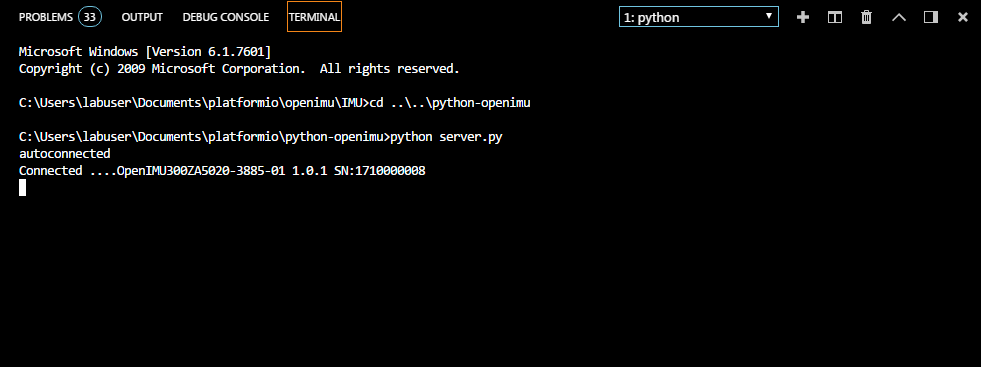
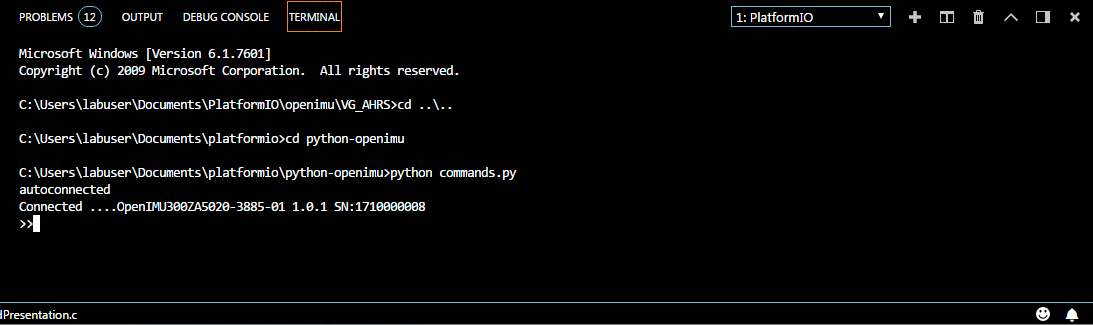
Corrections to tutorial files

diff --git a/tutorial.rst b/tutorial.rst
@@ -5,6 +5,8 @@ Building Your First Applications
 .. contents:: Contents
     :local:
 
+.. sectionauthor:: Joseph S Motyka <jmotyka at aceinna.com>
+
 
 *********
 Overview
@@ -13,7 +15,7 @@ Overview
 To get you acquainted with the OpenIMU environment, let's walk through the development of the
 following applications:
 
-    1. Framwork application
+    1. Framework application
     2. An Inertial-Measurement Unit (IMU)
     3. A Static-Leveler
     4. VG/AHRS
@@ -23,18 +25,21 @@ following applications:
 **Framework**
 
 All the examples that follow are based on the Framework application that ships installed on the
-OpenIMU.  This framework serves as a guided, blank-slate.  Descriptions provide guidance on where
+OpenIMU.  This framework serves as a blank-slate upon which user-application can be built.  The
+descriptions that follow provide guidance getting started, specifically on where in the framework
 to place sensor reads, algorithm code, and serial messaging output functions (among other items).
 
-For example, data acquisition functions (sensor-buffer getters) are placed in
-*inertialAndPositionDataProcessing()*.  The getters of interest can be used and the others removed.
-For instance, in the Leveler application, only the accelerometer data is of interest.  So no call
-is made for rate-sensor or magnetometer data and the getters associated with this data can be
-removed.
+For example, in the framework application, all data acquisition functions (sensor-buffer getters)
+are placed in *inertialAndPositionDataProcessing()*.  Depending upon your application, getters of
+interest can be kept while unused getters can be removed.  For instance, in the Leveler
+application, only accelerometer data is of interest.  No call is made for rate-sensor or
+magnetometer data so the getters associated with this data can be removed.
 
-To begin development of the IMU, Static-Leveler, or VG/AHRS application, rename the Framework
-application as something that is descriptive of your project and modify the code to suit your
-needs.  You can do this while walking through the following application examples.
+To begin development of the IMU, Static-Leveler, or VG/AHRS application, down load the application
+code related to the application being described (IMU, etc).  Follow the description to get an
+understanding how all the parts fit together.  When you are ready to create your own application,
+save the Framework application as something descriptive of your project and modify the code to suit
+your needs.
 
 
 **IMU**

diff --git a/tutorial/VG_AHRS/AHRS_Algorithm.rst b/tutorial/VG_AHRS/AHRS_Algorithm.rst
@@ -1,9 +1,11 @@
 ***************************************************************
-Verital-Gyro / Attitude and Heading Reference System Algorithm
+Vertical-Gyro / Attitude and Heading Reference System Algorithm
 ***************************************************************
 
 .. contents:: Contents
     :local:
+    
+.. sectionauthor:: Joseph S Motyka <jmotyka at aceinna.com>
 
 
 The mathematics behind the Vertical-Gyro / Attitude and Heading Reference System are based upon an
@@ -270,7 +272,7 @@ gAlgorithm.Behavior.  These are described in **Table 3**.
     |                      || is used to estimate heading.  When false, the heading error computed by    |
     |                      || the EKF is set to zero.  In this case, no updates to heading based states  |
     |                      || are done (the z-axis rate-bias is not estimated and the heading error is   |
-    |                      || not corrected.                                                             |
+    |                      || not corrected).                                                            |
     +----------------------+-----------------------------------------------------------------------------+
     |                      || This bit tells the algorithm to use GPS information if available.  For the |
     | *useGPS*             || VG/AHRS algorithm, this (at present) has no effect but should be set       |

diff --git a/tutorial/IMU_App.rst b/tutorial/IMU_App.rst
@@ -5,6 +5,8 @@ Inertial Measurement Unit Application
 .. contents:: Contents
     :local:
 
+.. sectionauthor:: Joseph S Motyka <jmotyka at aceinna.com>
+
 
 The Inertial Measurement Unit (IMU) application enables the OpenIMU hardware to provide
 inertial-sensor data from accelerometers, rate-sensors, and magnetometers.  This example forms the
@@ -38,10 +40,15 @@ follows:
     IMU/DefaultConfiguration
     IMU/PythonMessageDecoder
     IMU/NavigationStudio
-    IMU/Bootloader
 
 
 A pre-built version of the `IMU Application <https://developers.aceinna.com/apps>`__ can be
 downloaded directly onto the OpenIMU hardware at the
-`Aceinna Navigation Studio <https://developers.aceinna.com>`__ website.  
+`Aceinna Navigation Studio <https://developers.aceinna.com>`__ website.  The process is described
+here:
+
+.. toctree::
+    :maxdepth: 1
+
+    IMU/Bootloader
 

diff --git a/tutorial/VG_AHRS_App.rst b/tutorial/VG_AHRS_App.rst
@@ -4,6 +4,8 @@ Vertical-Gyro / Attitude and Heading Reference System Application
 
 .. contents:: Contents
     :local:
+    
+.. sectionauthor:: Joseph S Motyka <jmotyka at aceinna.com>
 
 
 The Vertical-Gyro (VG) / Attitude and Heading Reference System (AHRS) application enables the
@@ -50,4 +52,15 @@ as follows:
     VG_AHRS/DefaultConfiguration
     VG_AHRS/PythonMessageDecoder
     VG_AHRS/NavigationStudio
+
+
+A pre-built version of the `VG/AHRS Application <https://developers.aceinna.com/apps>`__ can be
+downloaded directly onto the OpenIMU hardware at the
+`Aceinna Navigation Studio <https://developers.aceinna.com>`__ website.  The process mirrors the
+once described for the `IMU application <IMU_App.html#inertial-measurement-unit-application>`__:
+
+.. toctree::
+    :maxdepth: 1
+
+    IMU/Bootloader
 

diff --git a/tutorial/Leveler_App.rst b/tutorial/Leveler_App.rst
@@ -4,6 +4,8 @@ Static-Leveler Application
 
 .. contents:: Contents
     :local:
+    
+.. sectionauthor:: Joseph S Motyka <jmotyka at aceinna.com>
 
 
 The static-leveler application enables the OpenIMU hardware to provide roll and pitch estimates (the
@@ -42,5 +44,12 @@ follows:
 
 A pre-built version of the `Leveler Application <https://developers.aceinna.com/apps>`__ can be
 downloaded directly onto the OpenIMU hardware at the
-`Aceinna Navigation Studio <https://developers.aceinna.com>`__ website.
+`Aceinna Navigation Studio <https://developers.aceinna.com>`__ website.  The process mirrors the
+once described for the `IMU application <IMU_App.html#inertial-measurement-unit-application>`__:
+
+.. toctree::
+    :maxdepth: 1
+
+    IMU/Bootloader
+
 

diff --git a/tutorial/IMU/SerialMessaging.rst b/tutorial/IMU/SerialMessaging.rst
@@ -4,6 +4,8 @@ Serial Messaging
 
 .. contents:: Contents
     :local:
+    
+.. sectionauthor:: Joseph S Motyka <jmotyka at aceinna.com>
 
 
 Serial Message Definition
@@ -131,7 +133,7 @@ switch-statement found in *HandleUserOutputPacket()* using the output name added
         //           NumOfBytes = 52 bytes
         *payloadLen = USR_OUT_LEV1_PAYLOAD_LEN;
 
-        // Output time as reprented by gIMU.timerCntr (uint32_t
+        // Output time as represented by gIMU.timerCntr (uint32_t
         // incremented at each call of the algorithm)
         uint32_t *algoData_1 = (uint32_t*)(payload);
         *algoData_1++ = gIMU.timerCntr;

diff --git a/tutorial/IMU/DataAcquisition.rst b/tutorial/IMU/DataAcquisition.rst
@@ -7,9 +7,11 @@ Data Acquisition
     
 .. toctree::
     :maxdepth: 1
+    
+.. sectionauthor:: Joseph S Motyka <jmotyka at aceinna.com>
 
 
-OpenIMU makes data-acquision simple by reducing the steps required to get high-quality, inertial
+OpenIMU makes data-acquisition simple by reducing the steps required to get high-quality, inertial
 sensor data.  Sensor drivers, filtering, and calibration are handled without the need for
 additional user input.
 

diff --git a/tutorial/IMU/NavigationStudio.rst b/tutorial/IMU/NavigationStudio.rst
@@ -4,6 +4,9 @@ Capturing, Displaying, and Saving Data
 
 .. contents:: Contents
     :local:
+    
+.. sectionauthor:: Joseph S Motyka <jmotyka at aceinna.com>
+
 
 With the following complete:
 
@@ -24,7 +27,7 @@ port.  This can be done by sending the following command at a terminal prompt fr
 
 ::
 
-    python server.py
+    python commands.py
 
 
 This initiates a search for the OpenIMU device on the machine's COM ports. When detected, the

diff --git a/tutorial/IMU/Requirements.rst b/tutorial/IMU/Requirements.rst
@@ -4,6 +4,9 @@ Application Requirements
 
 .. contents:: Contents
     :local:
+    
+.. sectionauthor:: Joseph S Motyka <jmotyka at aceinna.com>
+
 
 Development of an application requires system level requirements that describe the purpose of the
 application.  These requirements provide a guide for product development.  For the IMU application,

diff --git a/tutorial/Leveler/DataAcquisition.rst b/tutorial/Leveler/DataAcquisition.rst
@@ -4,6 +4,9 @@ Data Acquisition
 
 .. contents:: Contents
     :local:
+    
+.. sectionauthor:: Joseph S Motyka <jmotyka at aceinna.com>
+
 
 OpenIMU makes data-acquisition simple by reducing the steps required to get high-quality, inertial
 sensor data. Sensor drivers, filtering, and calibration are handled without the need for additional

diff --git a/tutorial/Leveler/Requirements.rst b/tutorial/Leveler/Requirements.rst
@@ -4,6 +4,9 @@ App Requirements
 
 .. contents:: Contents
     :local:
+    
+.. sectionauthor:: Joseph S Motyka <jmotyka at aceinna.com>
+
 
 Development of an application requires system level requirements that describe the purpose of the
 application.  These requirements provide a guide for product development.  For the static-leveler

diff --git a/tutorial/VG_AHRS/DataAcquisition.rst b/tutorial/VG_AHRS/DataAcquisition.rst
@@ -4,6 +4,9 @@ Data Acquisition
 
 .. contents:: Contents
     :local:
+    
+.. sectionauthor:: Joseph S Motyka <jmotyka at aceinna.com>
+
 
 OpenIMU makes data-acquisition simple by reducing the steps required to obtain high-quality,
 inertial sensor data. Sensor drivers, signal filtering, and application of the calibration to the
